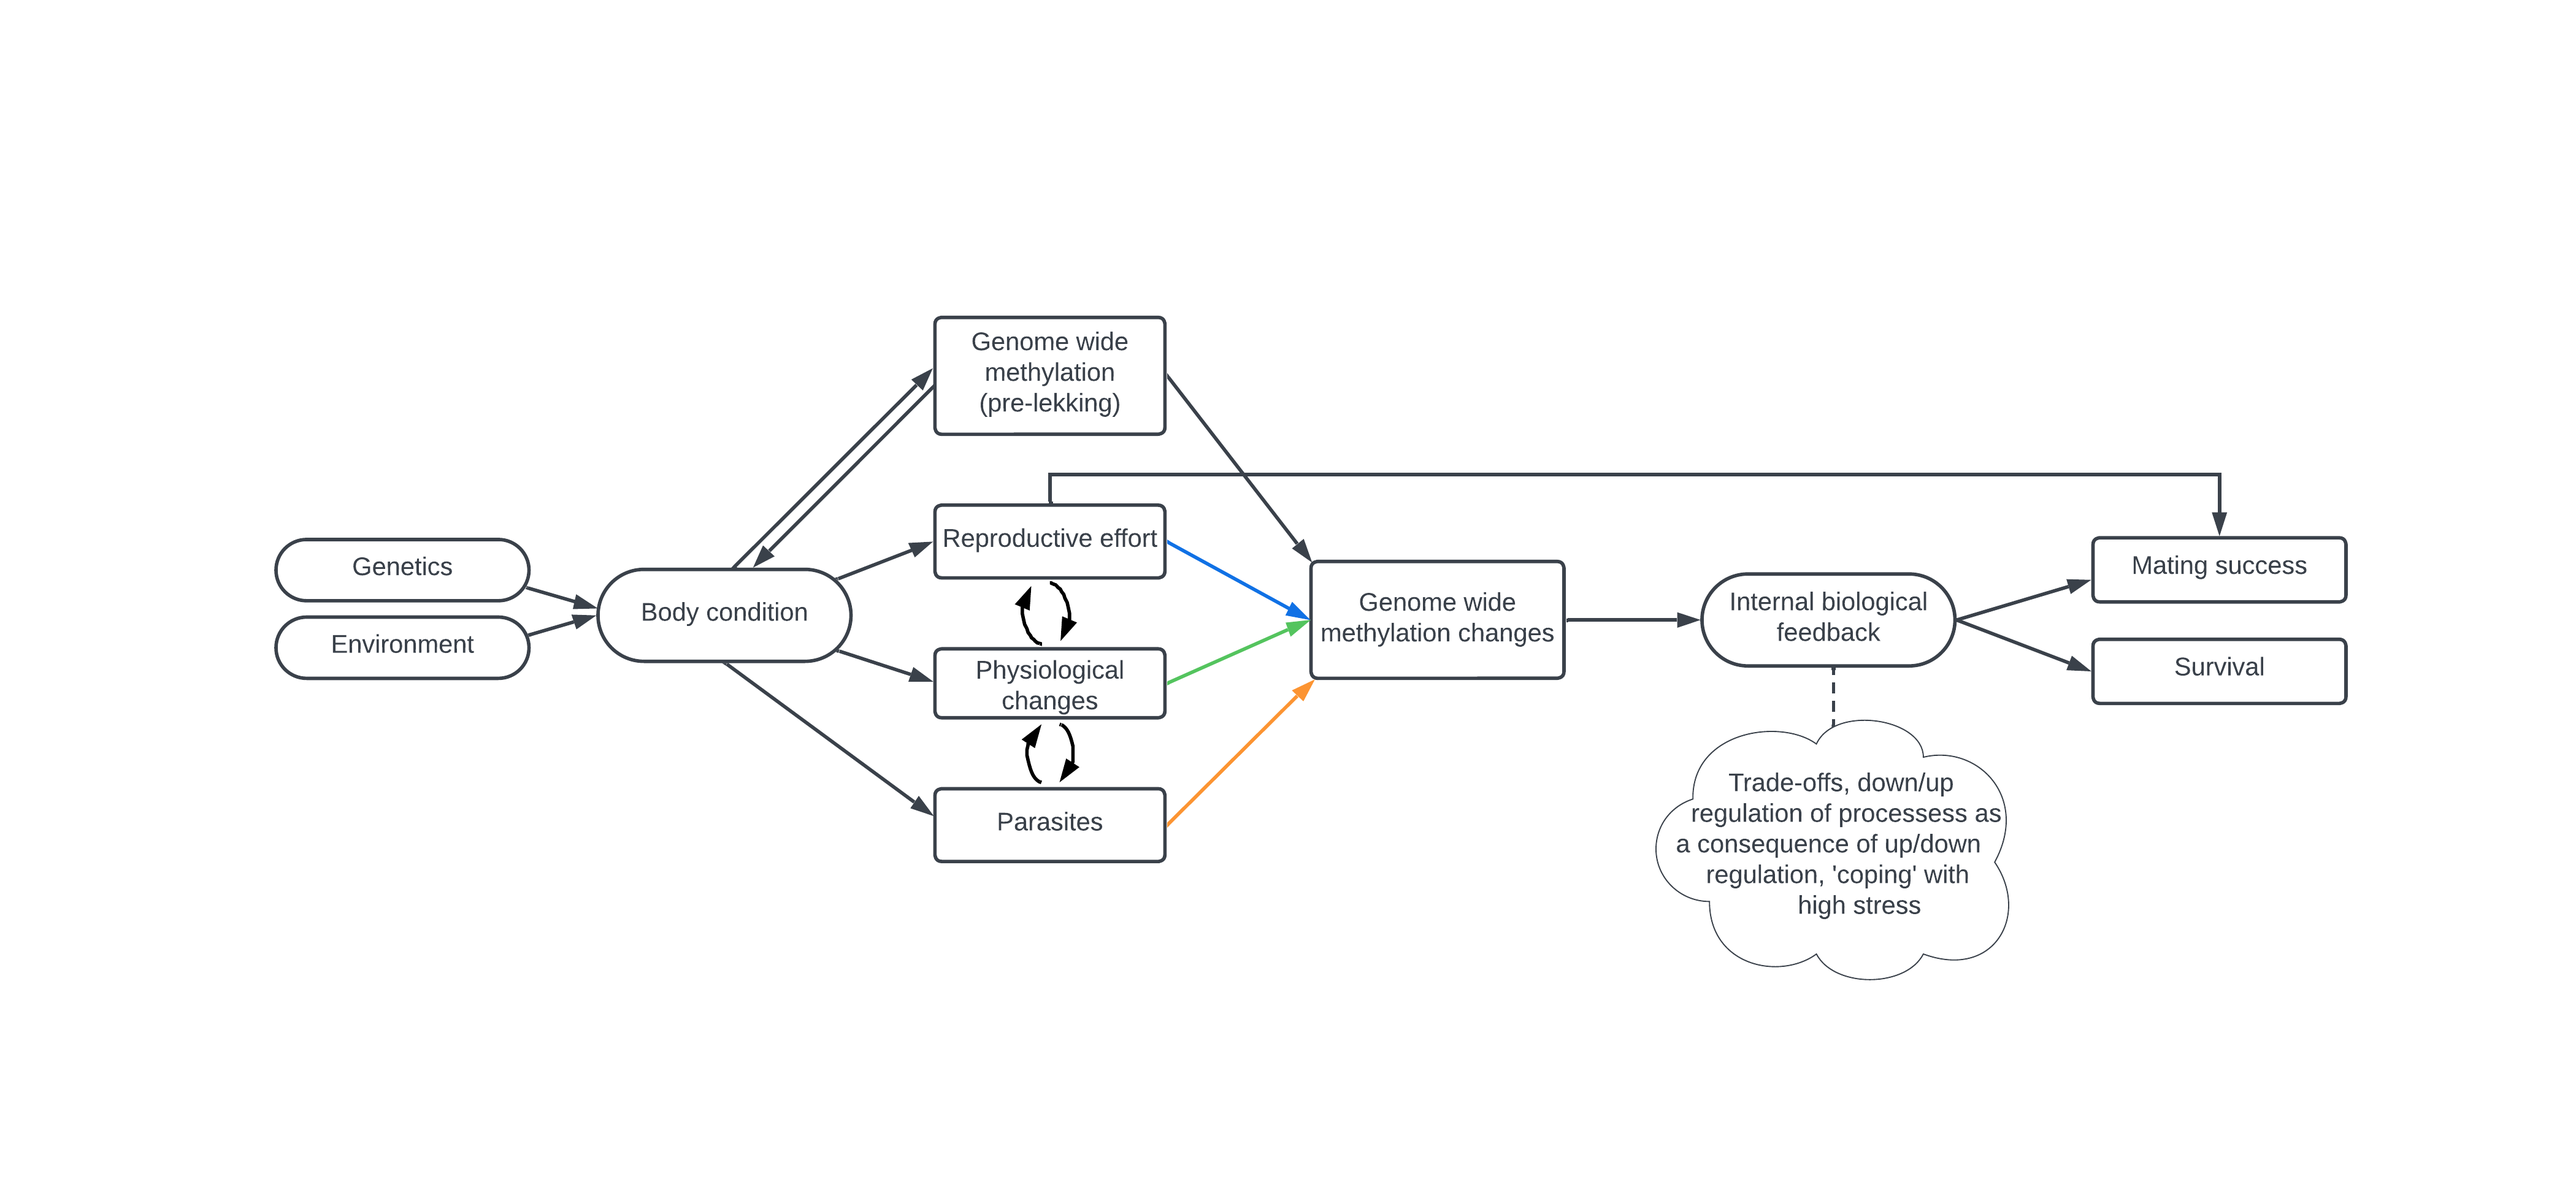
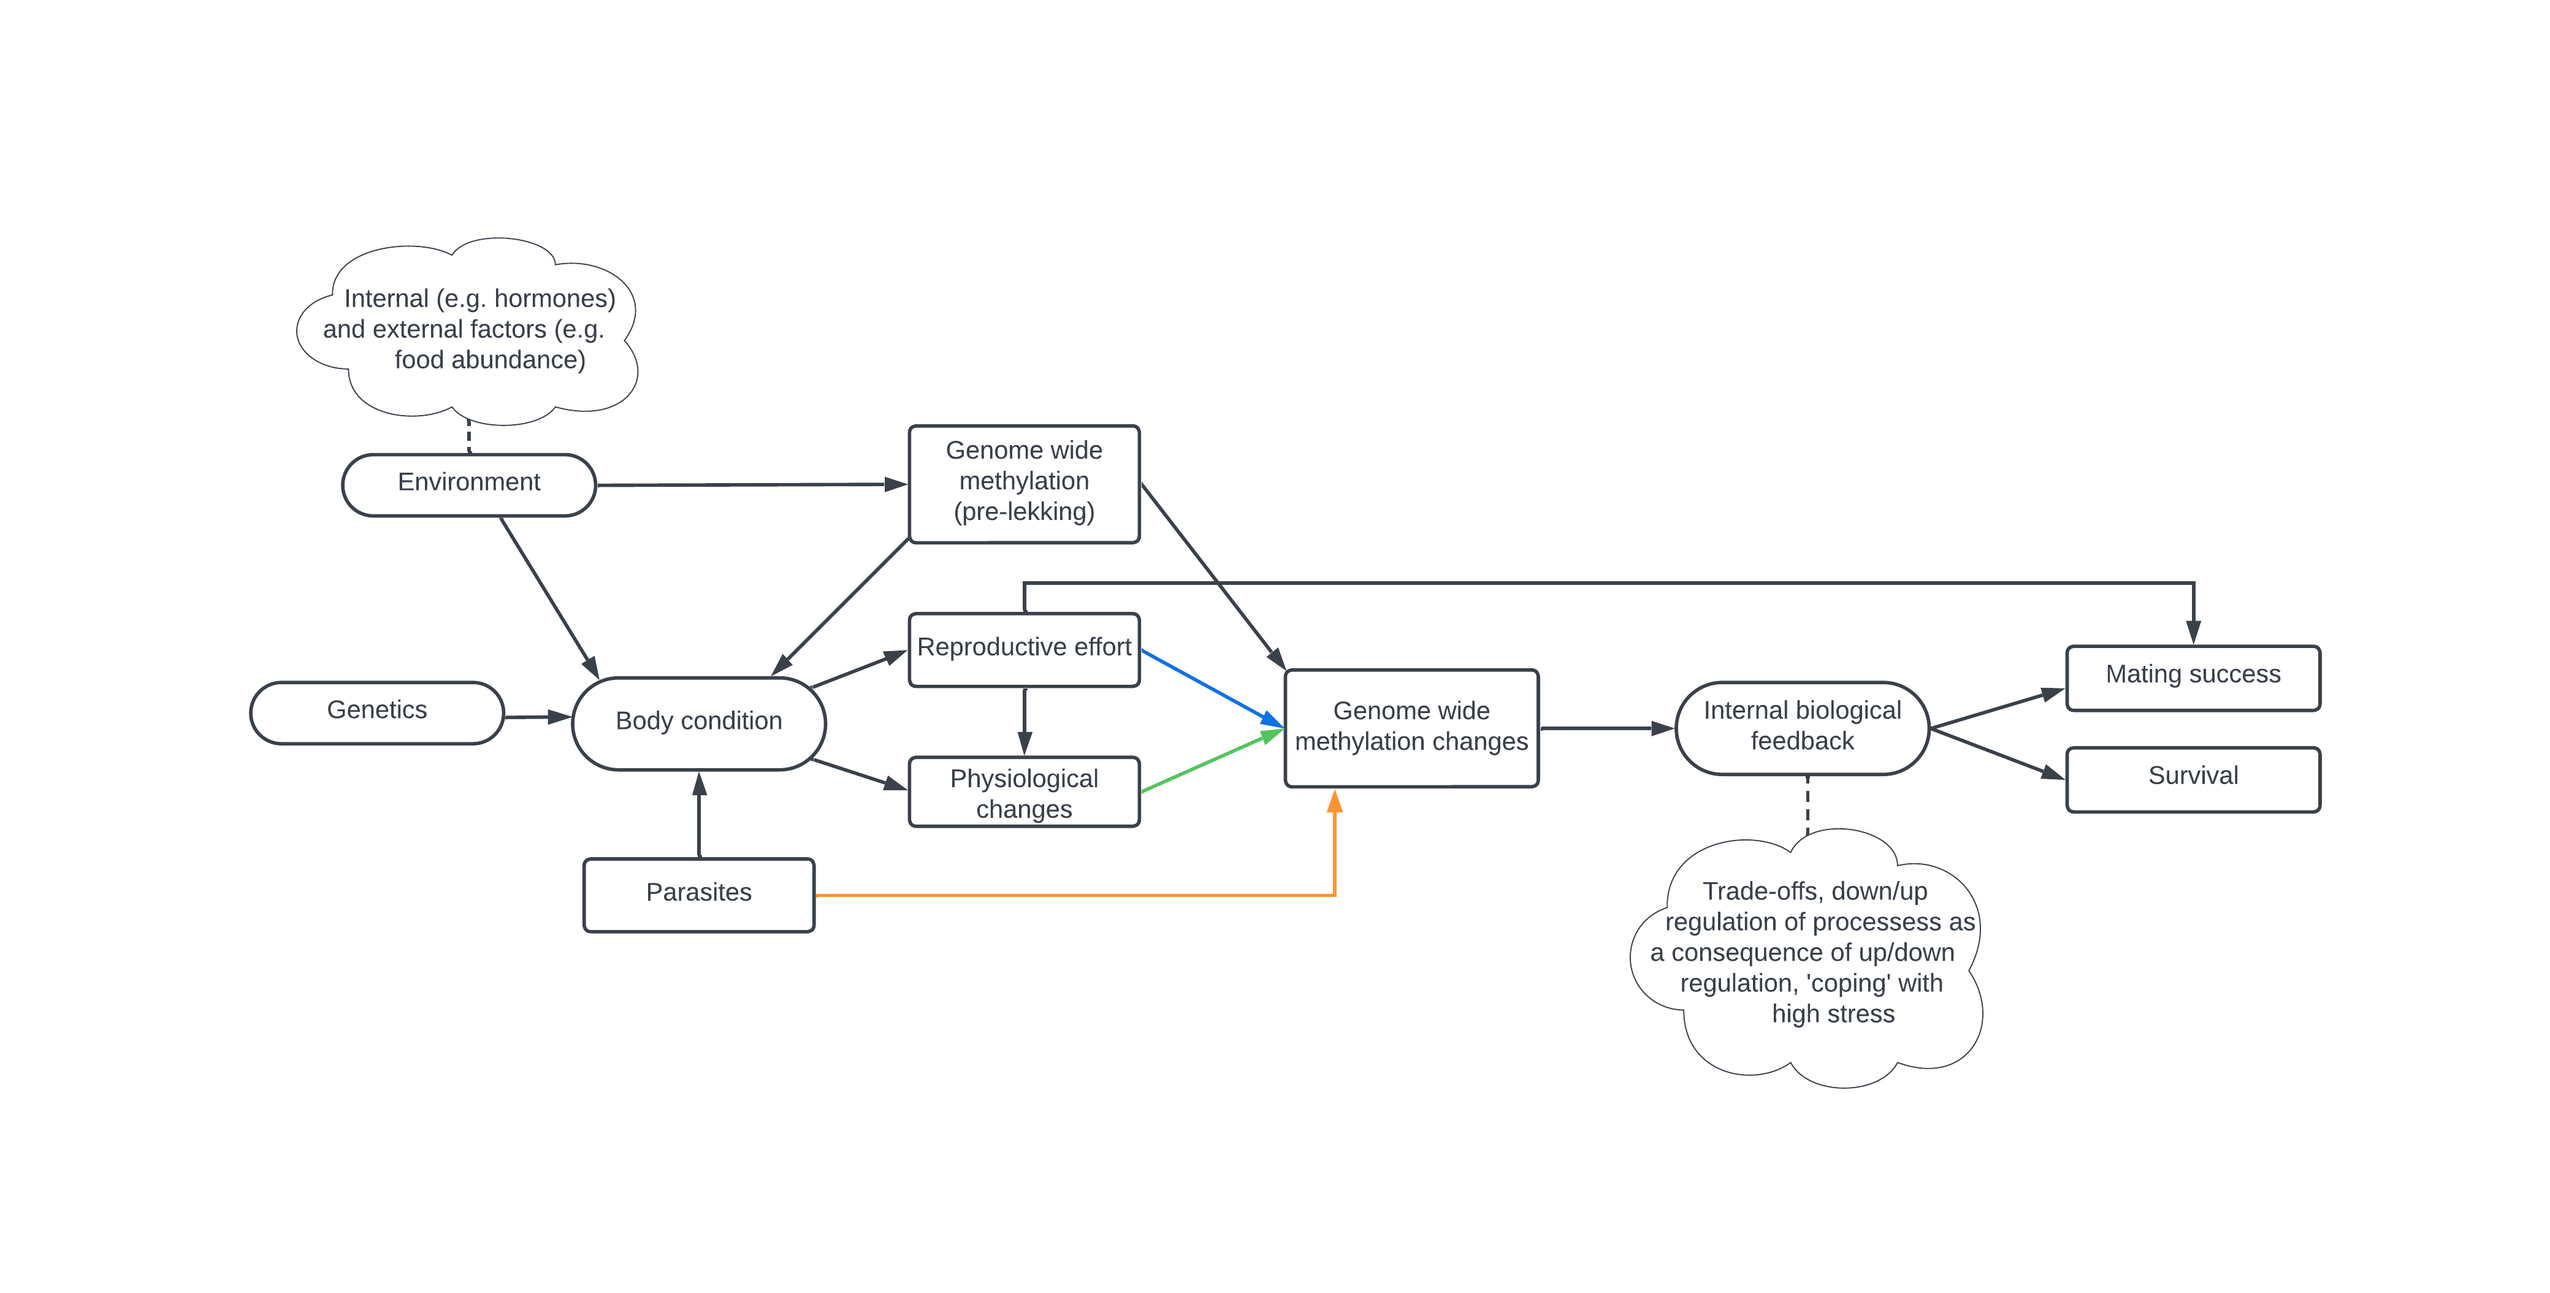
changes qmd

diff --git a/docs/qmd/9_discussion.html b/docs/qmd/9_discussion.html
@@ -290,9 +290,10 @@ ul.task-list li input[type="checkbox"] {
 </div>
 <p>As a recap, our models look like this:</p>
 <p><code>delta_meth ~ trait + pre_lekking + (1|site/id)</code></p>
-<p>I have to check with some of my colleagues, but because we expect a relationship between pre-lekking methylation and body condition, we want to ‘block’ this pathway when we try to understand the relationship between e.g.&nbsp;reproductive effort and methylation changes (we want to close the ‘backdoor’ following McElreath’s ‘Statistical rethinking’; see [https://speakerdeck.com/rmcelreath/statistical-rethinking-2023-lecture-06] or other summaries on ‘the haunted DAG &amp; the causal terror’ chapter).</p>
-<p>This would then be the case for all models (including those for fitness). I’m finding this really difficult though so I’m not sure what the most correct decision is.</p>
-<p>Furthermore, when trying to think of this DAG I also realized that the relationship between reproductive effort, physiological changes and parasites is complex, and I wonder if the way I modelled things (separately) is the best approach. I would say yes, as long as we describe this complex relationship well (e.g.&nbsp;a male fights a lot, loses body weight, is more susceptible to parasite infection, gets ‘ill’, stops investing in reproduction but in immune response instead, reduced fighting rate).</p>
+<p>Because we expect a relationship between pre-lekking methylation and body condition, we want to ‘block’ this pathway when we try to understand the relationship between e.g.&nbsp;reproductive effort and methylation changes (the blue line). In Mc.Elreath’s words, “we want to close the ‘backdoor’”, see e.g.&nbsp;[https://speakerdeck.com/rmcelreath/statistical-rethinking-2023-lecture-06] or other summaries on his ‘the haunted DAG &amp; the causal terror’ chapter in “Statistical Rethinking”).</p>
+<p>This would then be the case for all models excluding those for fitness. The one for fitness is tricky, in theory if we want to isolate just the effect of delta methylation on MS, we should control for all the other things (i.e.&nbsp;reproductive effort, parasites, etc.) but I think that’s not really what we want to do, and just see if there is an association between delta methylation (which is affected by many different processes) and e.g.&nbsp;mating success and survival.</p>
+<p>Note that this conclusion is based on if we all agree on this diagram, which I’m not 100% about!</p>
+<p>Furthermore, when trying to think of this DAG, constructing it highlighted the complex relationship between reproductive effort, physiological changes and parasites. I wonder if the way I modeled things (separately, one model for each trait) is the best approach? I would still say yes, as long as we describe this complex relationship well (e.g.&nbsp;a male fights a lot, loses body weight, is more susceptible to parasite infection, gets ‘ill’, stops investing in reproduction but in immune response instead, reduced fighting rate).</p>
 <p>Alternatively, we could only build one model with all variables as predictors (reproductive effort, physiology, parasites) but I think this would overfit our model and we have too little data for this, so I still think it’s okay to do it the way we did, but describe it in a way that we cannot outrule the possibility that even though we find a CpG site significantly affected by fighting rate, it’s also possible that other factors are into play here that affect fighting rate and thus methylation changes indirectly.</p>
 </section>
 </section>
